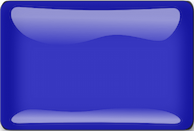
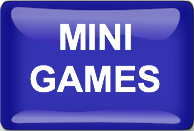
final game! all variables and texts needed has been added

diff --git a/game.js b/game.js
@@ -2,16 +2,16 @@
 /*jslint sloppy:true, browser: true, devel: true, eqeq: true, vars: true, white: true*/
 var game;
 var time = 0;
-var money = 1000000;
+var money = 500;
 var llamaCount = 0;
-var grassSupply = 0;
+var grassSupply = 5;
 var highScore = 0;
 var mainMenu = {
     preload: function() {
         game.load.image('ferrisWheel', 'imgs/ferrisWheel.png');
         game.load.image('sky', 'imgs/skyBackground.png');
         game.load.image('cloud', 'imgs/cloud.png');
-        game.load.image('start', 'imgs/start.jpg');
+        game.load.image('start', 'imgs/llama.png');
     },
     create: function() {
         
@@ -34,13 +34,16 @@ var mainMenu = {
         game.time.events.loop(1000, this.addCloud, this);
         
         //start button
-        this.start = game.add.button(0,0, 'start', this.start, this);
+        this.start = game.add.button(game.world.width/2 - this.start.width/2,game.world.height - this.start.height, 'start', this.start, this);
         this.start.x = game.world.width/2 - this.start.width/2;
         this.start.y = game.world.height - this.start.height;
         
+        
         //fonts or text
-        var title = "Llama Empire";
-        var style = {font: "28px Arial", fill: "#ff0044", align: "center"};
+        this.title = game.add.text(0, 80, 'Llama Empire', { font: "60px Arial", fill: "black" });
+        this.title.x = game.world.width/2 - this.title.width/2;
+        this.clickToStart = game.add.text(0,150, 'Click this cute llama to start!', { font: "18px Arial", fill: "black" });
+        this.clickToStart.x = game.world.width/2 - this.clickToStart.width/2;
 
     },
     update: function() {
@@ -65,27 +68,27 @@ var mainState = {
     preload: function () {
         game.load.image('sky', 'imgs/skyBackground.png');
         game.load.image('hfence', 'imgs/horizontalFence.png');
-        game.load.image('llama' , 'imgs/placeholder.png');
+        game.load.image('llama' , 'imgs/llama.png');
         game.load.image('bar', 'imgs/bar.png');
         game.load.image('buy', 'imgs/buyButton.png');
         game.load.image('sell', 'imgs/sellButton.png');
-        game.load.image('llamas', 'imgs/placeholder_mini.png');
+        game.load.image('llamas', 'imgs/llama_mini.png');
         game.load.image('vFence', 'imgs/verticalFence.png');
         game.load.image('feedAlert', 'imgs/feedAlert.png');
         game.load.image('grass', 'imgs/grass.png');
         game.load.image('feed', 'imgs/feedButton.png');
         game.load.image('all', 'imgs/all.png');
         game.load.image('mg', 'imgs/mgButton.png');
+        game.load.image('back', 'imgs/backButton.png');
     },
     create: function () {
         game.physics.startSystem(Phaser.Physics.ARCADE);
-<<<<<<< HEAD
         game.scale.fullScreenScaleMode = Phaser.ScaleManager.SHOW_ALL;
         game.scale.scaleMode = Phaser.ScaleManager.SHOW_ALL;
         game.scale.refresh();
-=======
         
->>>>>>> Lin
+        
+
         //backgrounds
         this.bgSky = game.add.sprite(0,0, 'sky');
         
@@ -104,6 +107,7 @@ var mainState = {
         //llama stuff
         //TODO: MAKE SPRITE CLASS AND MAKE IT RESEMBLE BUTTONS CLASS
         this.llama = game.add.button(0, this.hFence.position.y -10, 'llama', this.llamaOnClick, this);
+        this.llama.scale.x = 0.7; this.llama.scale.y = 0.7;
         this.llamas = game.add.group(game, 'llamas','llamas');
         this.llamas.enableBody = true;
         this.llamas.createMultiple(1000, 'llamas');
@@ -122,9 +126,7 @@ var mainState = {
         //sell button
         this.sellButton = game.add.button(this.buyButton.position.x+ this.buyButton.width + 5 , this.buyButton.position.y,'sell', this.sellOnClick, this);
         this.sellButton.visible = false;
-<<<<<<< HEAD
-                
-=======
+
         game.physics.arcade.enable(this.sellButton);
         
             
@@ -146,8 +148,8 @@ var mainState = {
         this.gBuyButton.visible = false;
         
         //text
-        this.llamaText = game.add.text(0,0,'Llamas: '+ llamaCount, this.textStyle);
-        this.moneyText = game.add.text(game.world.width/3 , 0, 'Money: $' + money,  this.textStyle);
+        this.llamaText = game.add.text(80,0,'Llamas: '+ llamaCount, this.textStyle);
+        this.moneyText = game.add.text(game.world.width/3+ 30 , 0, 'Money: $' + money,  this.textStyle);
         this.grassText = game.add.text(this.gBuyButton.position.x + this.gBuyButton.width + 10, this.gBuyButton.position.y, '' + grassSupply, this.textStyle);
         this.grassText.visible = false;
         //mini games button
@@ -160,9 +162,10 @@ var mainState = {
         for (var i = 0; i < llamaCount; i++) {
             this.addLlama();
         }
-
         
->>>>>>> Lin
+        //back button
+        this.back = game.add.button(0,0, 'back', function() {game.state.start('main')}, this);
+        this.back.scale.x = 0.3; this.back.scale.y = 0.3;
     },
     
     update: function () {
@@ -212,7 +215,7 @@ var mainState = {
         }
     },
     feedOnClick: function() {
-        if (grassSupply >= 1) {
+        if (grassSupply >= llamaCount) {
             this.llamas.forEachAlive(function(llama){
                 if (this.now - llama.lastFed > this.feedAlertTime){
                     grassSupply--;
@@ -279,9 +282,9 @@ var mainState = {
     },
     
     buyGrass: function() {
-        if (money >= 20) {
+        if (money >= 50) {
             grassSupply++;
-            money -= 20;
+            money -= 50;
         }
     },
     
@@ -317,7 +320,7 @@ var mgSelection = {
 var flappyLlama = {
     preload: function() {
         game.load.image('bg', 'imgs/flappyBirdBackground.png');
-        game.load.image('llama', 'imgs/placeholder_mini.png');
+        game.load.image('llama', 'imgs/llama_mini.png');
         game.load.image('pipe', 'imgs/pipe.png');
         game.load.image('pipe2', 'imgs/pipe2.png');
         game.load.image('board', 'imgs/board.png');
@@ -326,6 +329,9 @@ var flappyLlama = {
     },
     create: function() {
         game.physics.startSystem(Phaser.Physics.ARCADE);
+        game.scale.fullScreenScaleMode = Phaser.ScaleManager.SHOW_ALL;
+        game.scale.scaleMode = Phaser.ScaleManager.SHOW_ALL;
+        game.scale.refresh();
         this.gameOverhuh = false;
         
         //bg
@@ -380,6 +386,7 @@ var flappyLlama = {
     gameOver: function() {
         if (highScore<= this.score)
             highScore = this.score;
+        money += this.score;
         this.gameOverhuh = true;
         this.llama.body.velocity.y = 0;
         this.pipes.forEachAlive(function(pipeT){
@@ -391,8 +398,9 @@ var flappyLlama = {
         this.gameOverBoard = game.add.sprite(50, 50, 'board');
         this.back = game.add.button(60, 350, 'back', function() {game.state.start('mgSelection')}, this);
         this.replay = game.add.button(this.back.position.x + this.back.width + 5, this.back.position.y,'replay', this.restart, this);
-        this.scoreText2 = game.add.text(game.world.centerX - 200,game.world.centerY - 100, 'Score:' + Math.max(this.score, 0), { font: "60px Arial", fill: "black" });
-        this.highScoreText = game.add.text(game.world.centerX - 200,game.world.centerY , 'High score:' + highScore, { font: "60px Arial", fill: "black" });
+        this.money  = game.add.text(game.world.centerX - 200, game.world.centerY - 130, 'Money: +' + Math.max(this.score, 0),  { font: "60px Arial", fill: "black" });
+        this.scoreText2 = game.add.text(game.world.centerX - 200,game.world.centerY - 50, 'Score:' + Math.max(this.score, 0), { font: "60px Arial", fill: "black" });
+        this.highScoreText = game.add.text(game.world.centerX - 200,game.world.centerY + 30 , 'High score:' + highScore, { font: "60px Arial", fill: "black" });
     },
     
     restart: function() {
@@ -427,10 +435,7 @@ game = new Phaser.Game(640, 480, Phaser.AUTO, 'gameDiv');
 // And finally we tell Phaser to add and start our 'main' state
 game.state.add('main', mainState);
 game.state.add('mainMenu', mainMenu);
-<<<<<<< HEAD
-game.state.start('mainMenu');
-=======
 game.state.add('mgSelection', mgSelection);
 game.state.add('flappyLlama', flappyLlama);
-game.state.start('main');
->>>>>>> Lin
+game.state.start('mainMenu');
+
